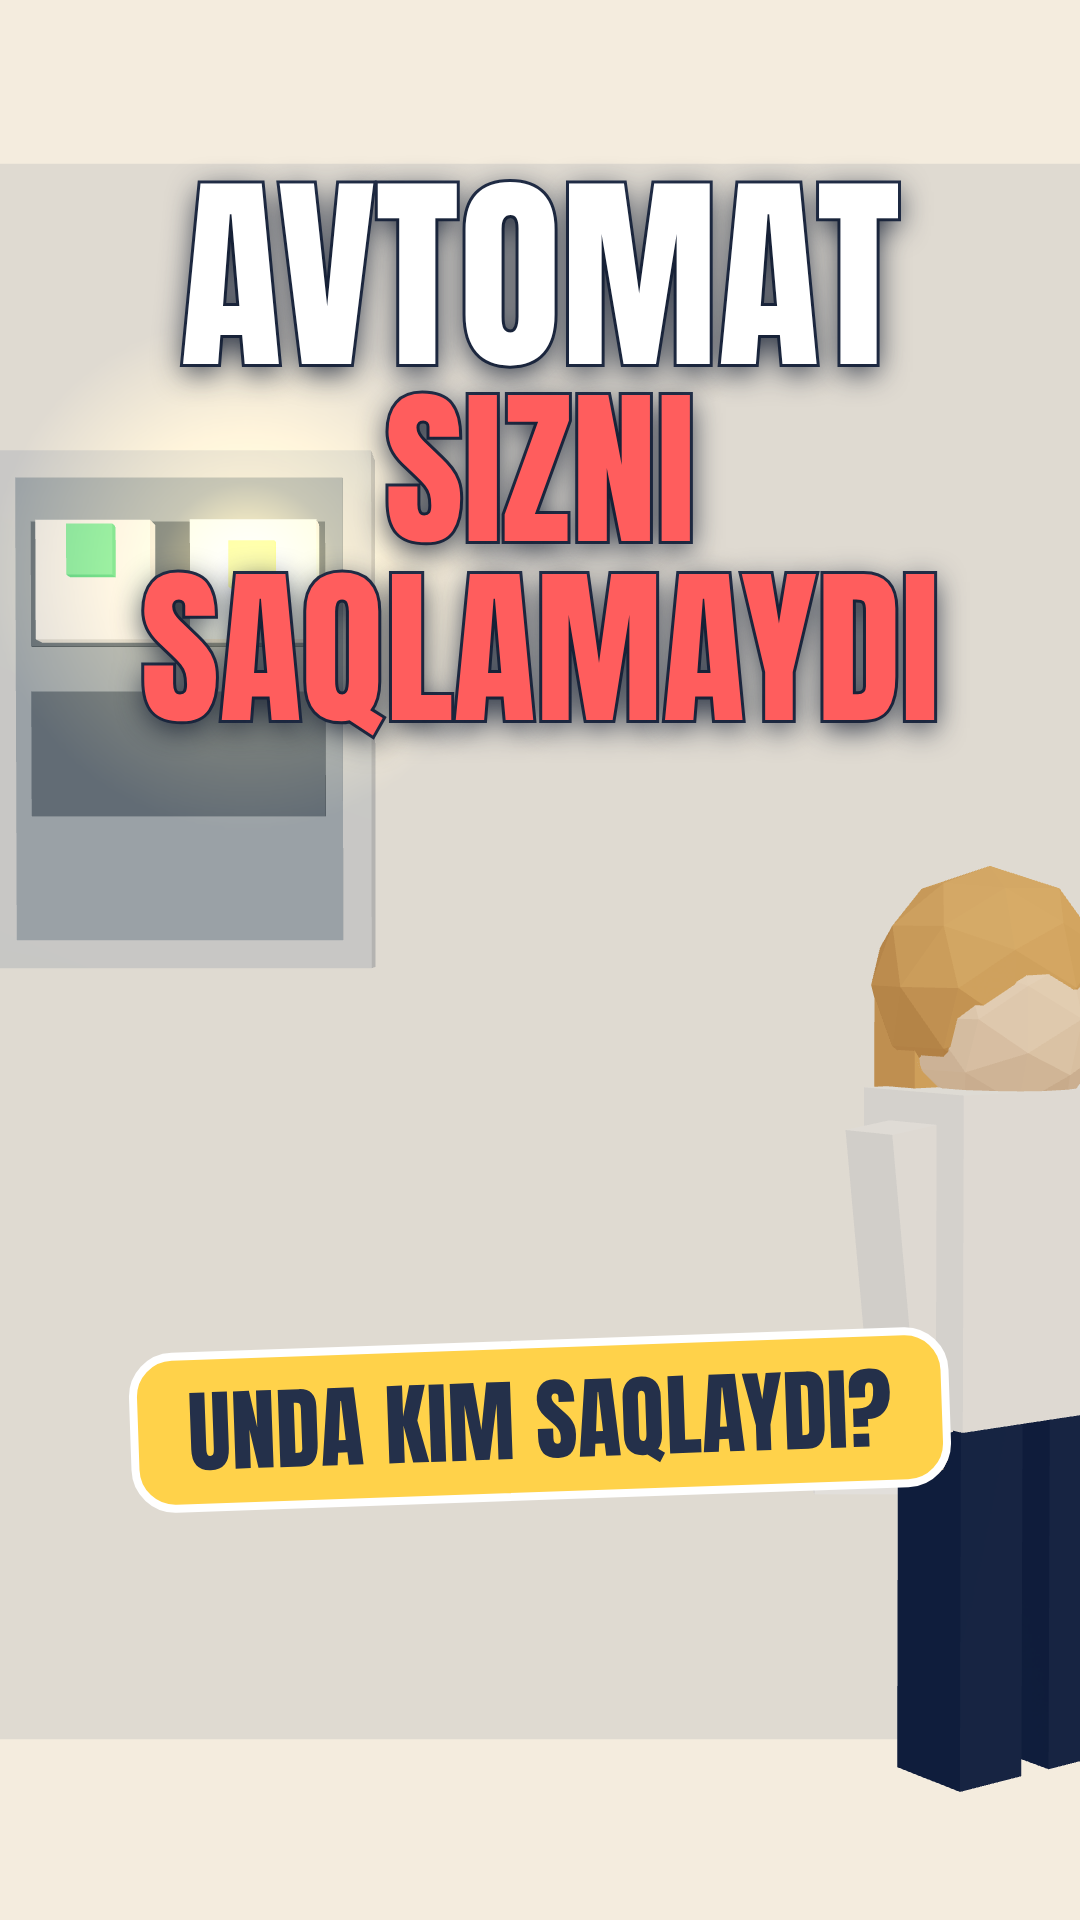
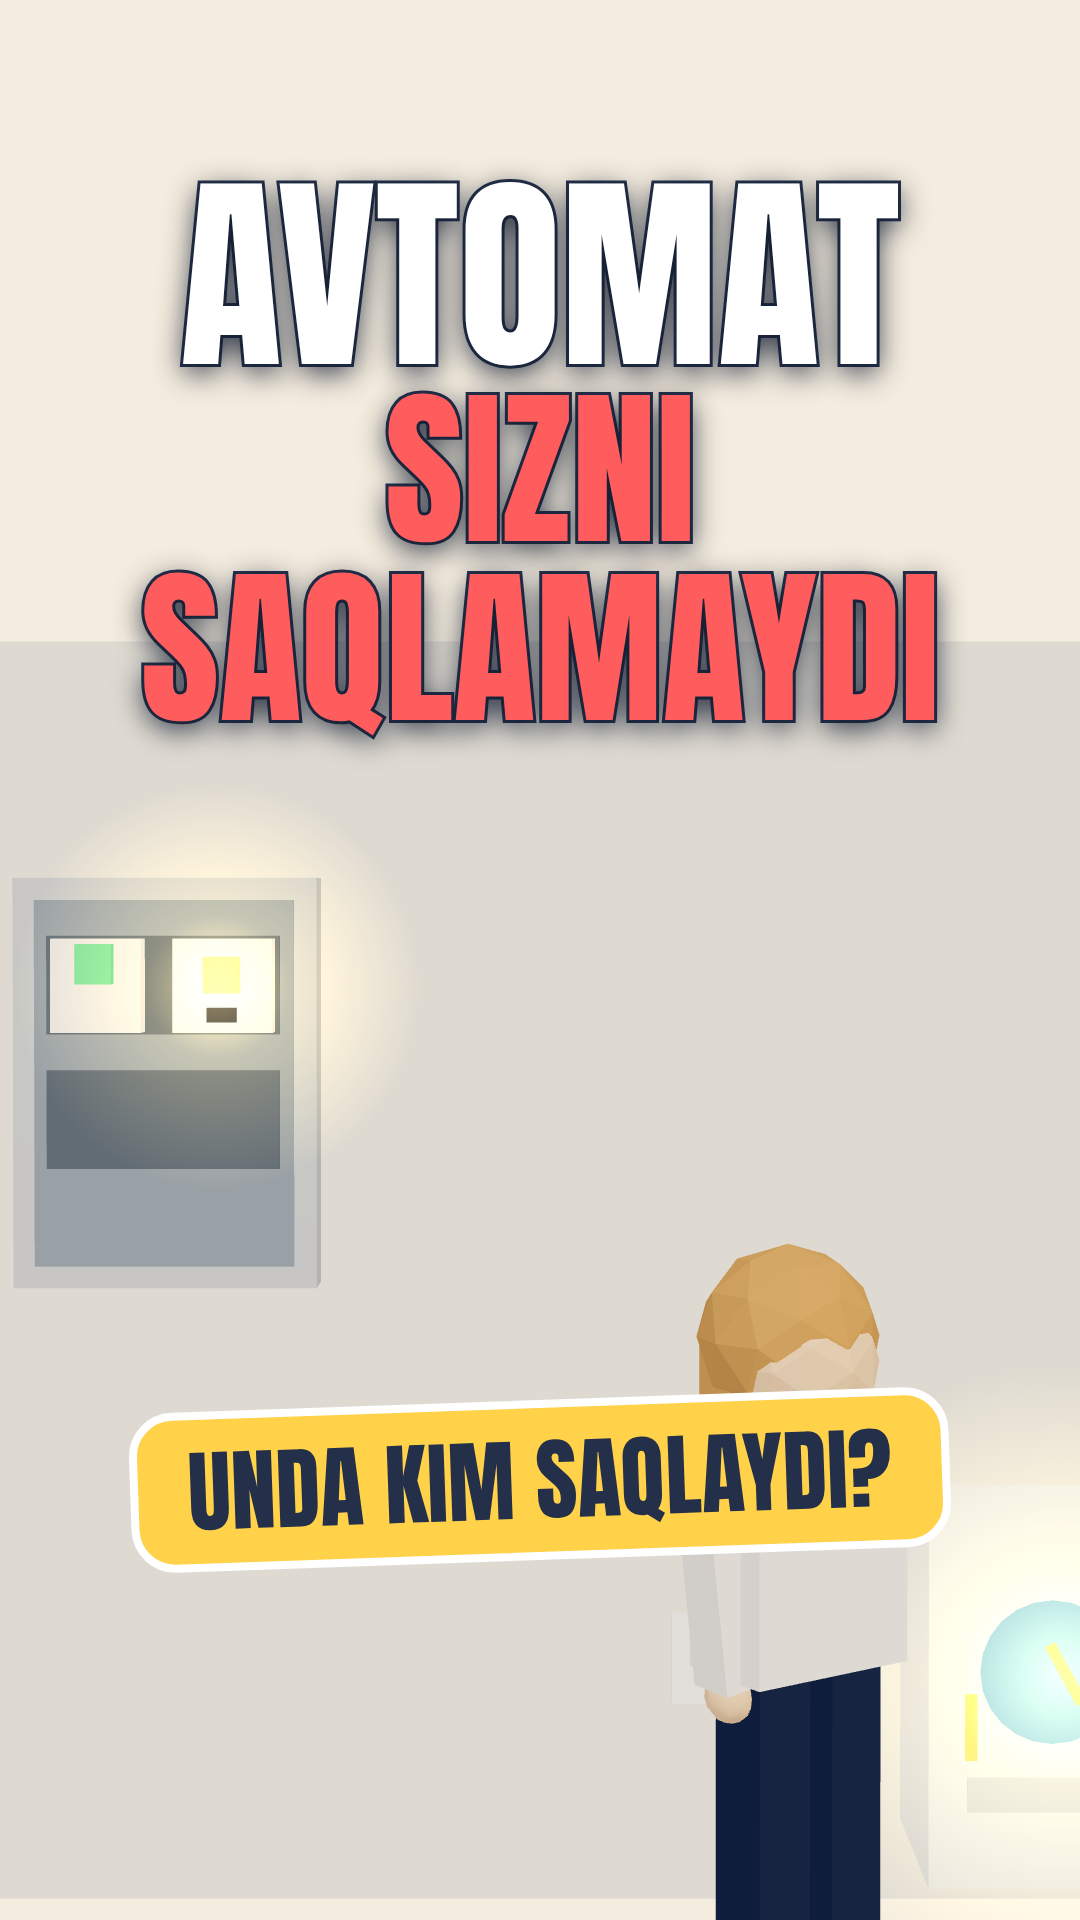
Electro: правки камеры и обложки

Changed region(s): [[0.0, 0.2188, 1.0, 1.0], [0.7944, 0.4375, 1.0, 0.5938]]

diff --git a/reels/src/Electro.tsx b/reels/src/Electro.tsx
@@ -431,7 +431,7 @@ export const Electro: React.FC = () => {
 
 export const ElectroCover: React.FC = () => (
   <AbsoluteFill style={{background: '#f4ecde'}}>
-    <ThreeCanvas width={1080} height={1920} camera={{position: [0, 3.6, 12], fov: 40, near: 0.1, far: 200}}>
+    <ThreeCanvas width={1080} height={1920} camera={{position: [0, 5.2, 14], fov: 40, near: 0.1, far: 200}}>
       <color attach="background" args={['#f4ecde']} />
       <SoftLights />
       <ambientLight intensity={0.4} />
@@ -440,13 +440,13 @@ export const ElectroCover: React.FC = () => (
       <mesh position={[0.6, 1.0, -1.0]}><boxGeometry args={[0.5, 0.5, 0.08]} /><meshStandardMaterial color="#fff" /></mesh>
       <Appliance live shock={0} />
       <Heroine position={[0.9, 0.1, 0.8]} scale={1.45} point={0.5} look={0.6} />
-      <Rig from={[-0.9, 3.4, 11]} to={[-0.9, 3.4, 11]} lookFrom={[-0.9, 3.2, 0]} lookTo={[-0.9, 3.2, 0]} dur={5} shake={0} fov={40} />
+      <Rig from={[-0.4, 5.2, 14]} to={[-0.4, 5.2, 14]} lookFrom={[-0.4, 5.0, 0]} lookTo={[-0.4, 5.0, 0]} dur={5} shake={0} fov={40} />
     </ThreeCanvas>
     <div style={{position: 'absolute', left: 0, right: 0, top: 170, textAlign: 'center', fontFamily: anton, color: '#fff', textShadow: '0 8px 30px rgba(20,30,50,.9)', WebkitTextStroke: '6px #24304a', paintOrder: 'stroke fill'}}>
       <div style={{fontSize: 210, lineHeight: 1.0}}>AVTOMAT</div>
       <div style={{fontSize: 170, lineHeight: 1.05, color: '#ff5d5d'}}>SIZNI SAQLAMAYDI</div>
     </div>
-    <div style={{position: 'absolute', left: 0, width: SW, top: 1340, textAlign: 'center'}}>
+    <div style={{position: 'absolute', left: 0, width: SW, top: 1400, textAlign: 'center'}}>
       <span style={{display: 'inline-block', fontFamily: anton, fontSize: 90, color: '#24304a', background: GOLD, border: '8px solid #fff', borderRadius: 44, padding: '4px 50px', transform: 'rotate(-2deg)'}}>UNDA KIM SAQLAYDI?</span>
     </div>
   </AbsoluteFill>
